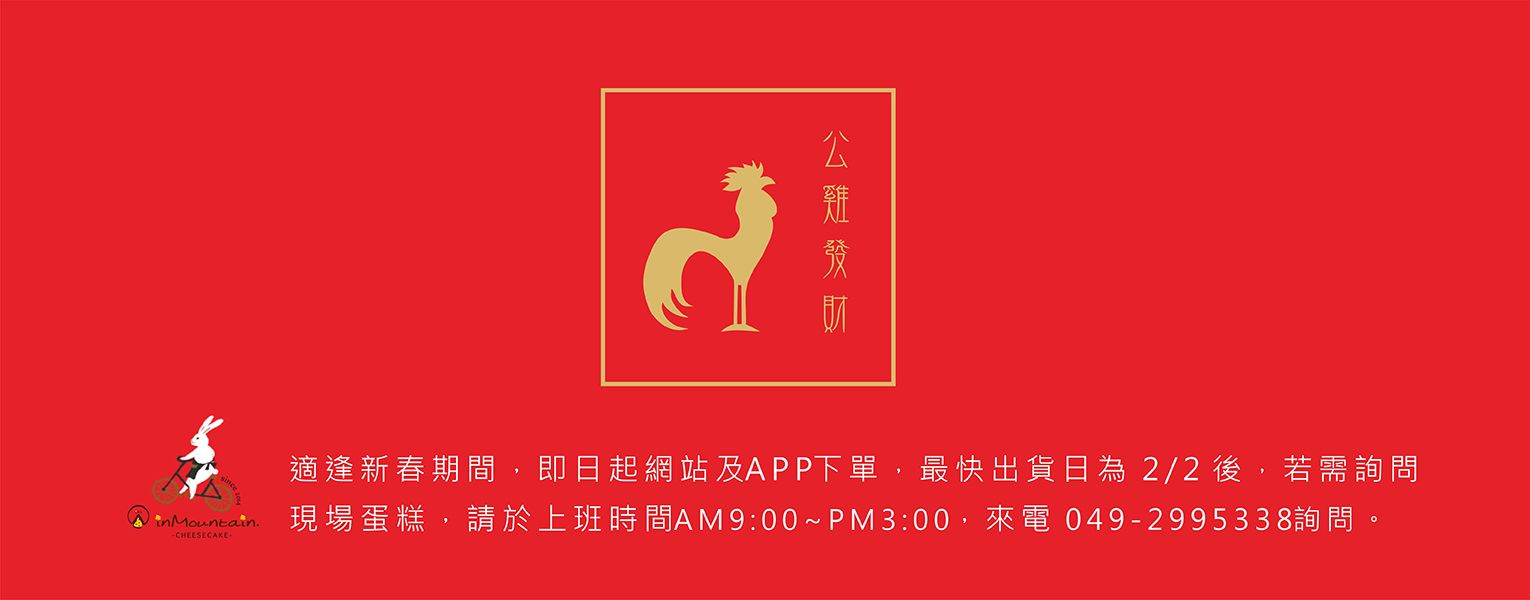
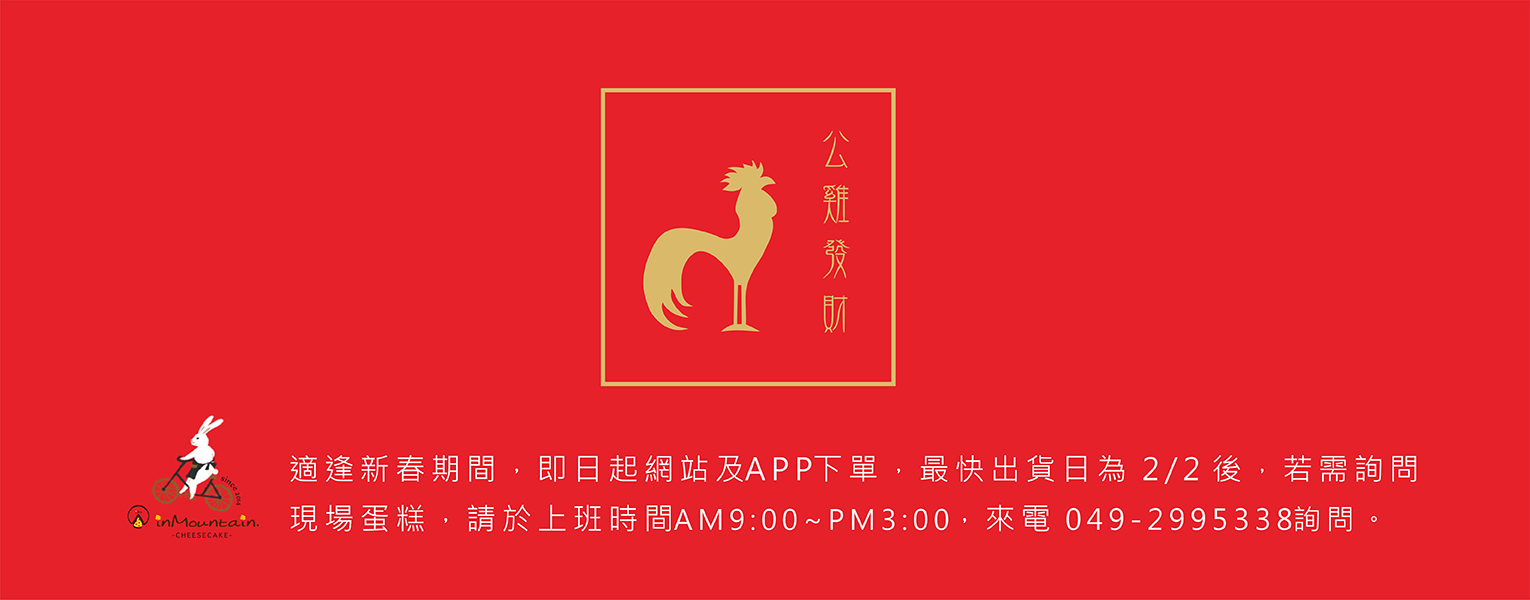
修改公雞圖為 loseless

diff --git a/index.html b/index.html
@@ -403,7 +403,7 @@
                                      data-ng-src="//diz36nn4q02zr.cloudfront.net/webapi/images/z/400/400//LayoutTemplateData/267261/2/110430?quality=30"
                                      data-ns-lazy-image="//diz36nn4q02zr.cloudfront.net/webapi/images/o/400/400//LayoutTemplateData/267261/2/110430"
                                      alt="手作職人"
-                                     src="cakeOriginImages/110430.jpeg">
+                                     src="buildCakeOriginImages/110430.jpeg">
                             </a>
                         </li><!-- end ngRepeat: item in carouselList track by $index -->
                         <li class="carousel-li">
